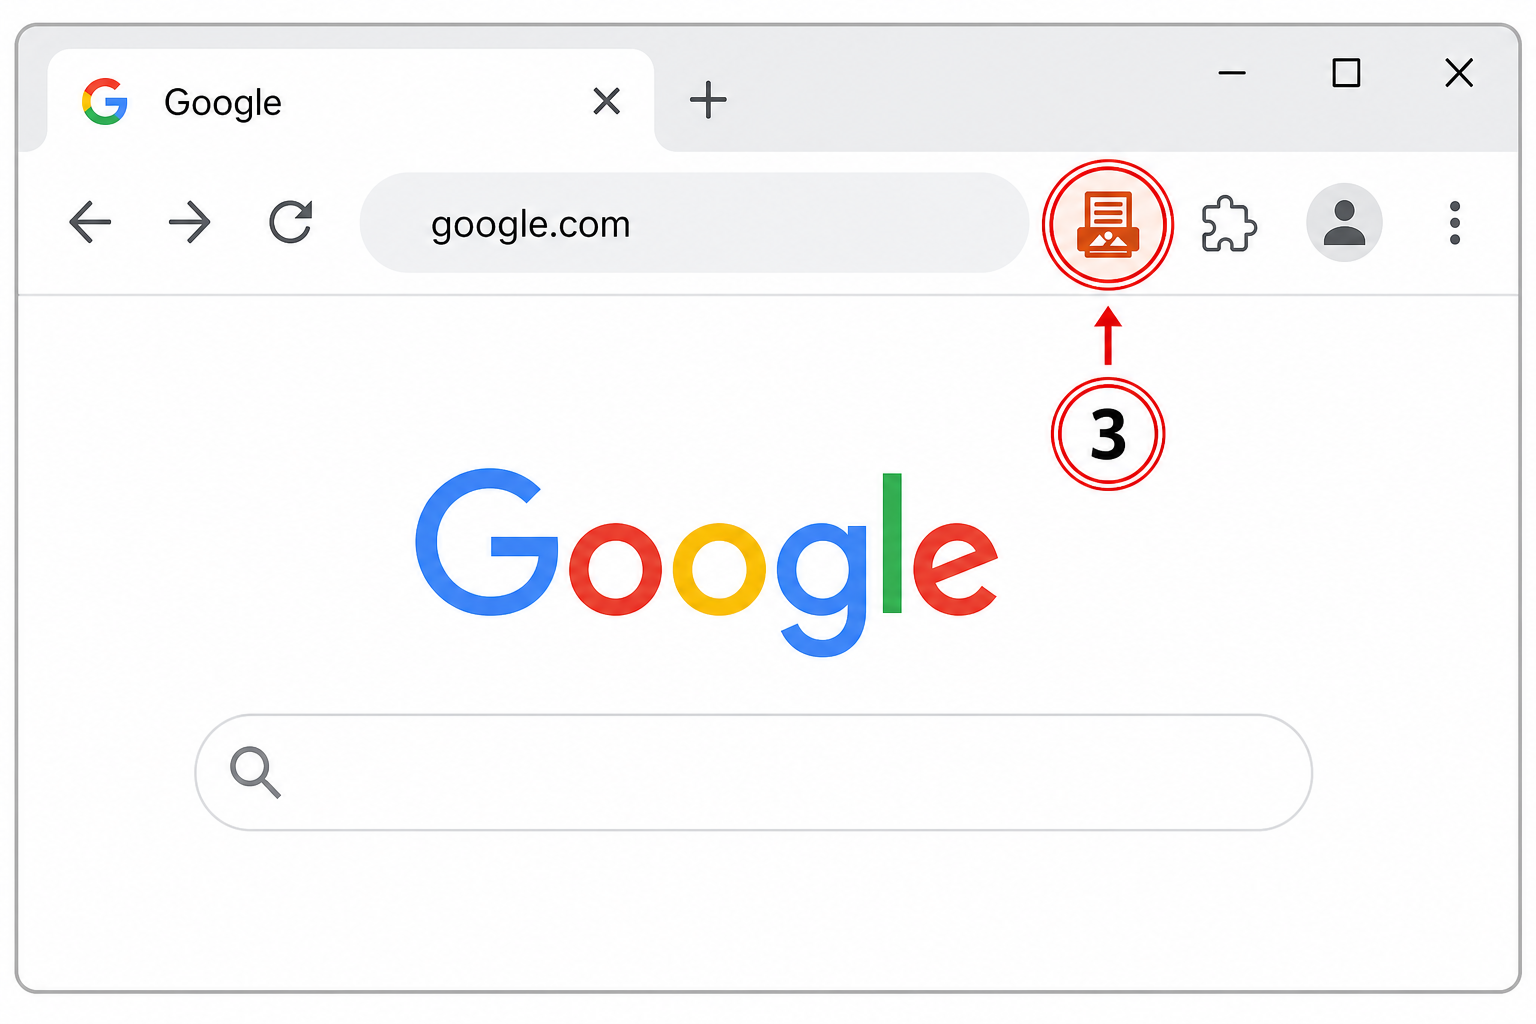
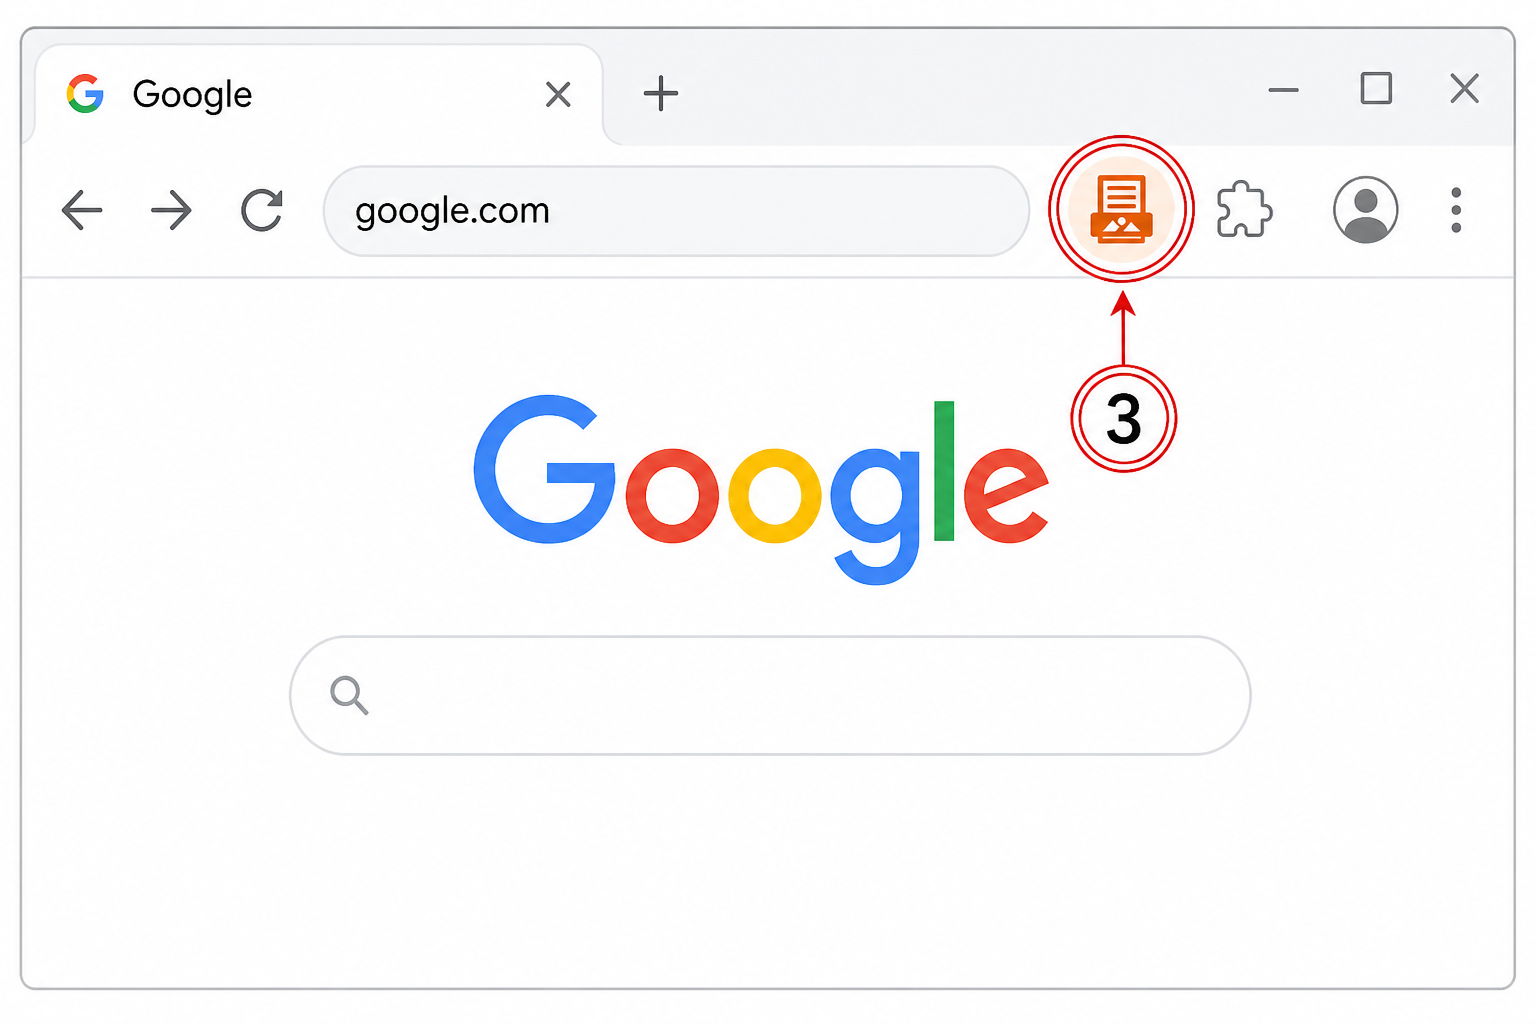
welcome: regenerate both instruction shots with the real B2 mark; policy contact
The previous shots drew an invented filled orange square instead of the product
icon. Both are regenerated through the gpt-image prompt with public/icon/128.png
passed as the reference, so the row icon and the pinned icon are now the shipped
mark. Privacy contact moves to the product support address.

diff --git a/policy/index.html b/policy/index.html
@@ -152,7 +152,7 @@ a:focus-visible{outline:2px solid var(--accent);outline-offset:3px;border-radius
   <p>If this policy changes, we will update the "Last updated" date above. The current version always lives here.</p>
 
   <h2>Contact</h2>
-  <p><a href="mailto:kim.t.sh88@gmail.com"><strong>kim.t.sh88@gmail.com</strong></a></p>
+  <p><a href="mailto:support@pictotext.net"><strong>support@pictotext.net</strong></a></p>
 
 </article></div></main>
 
